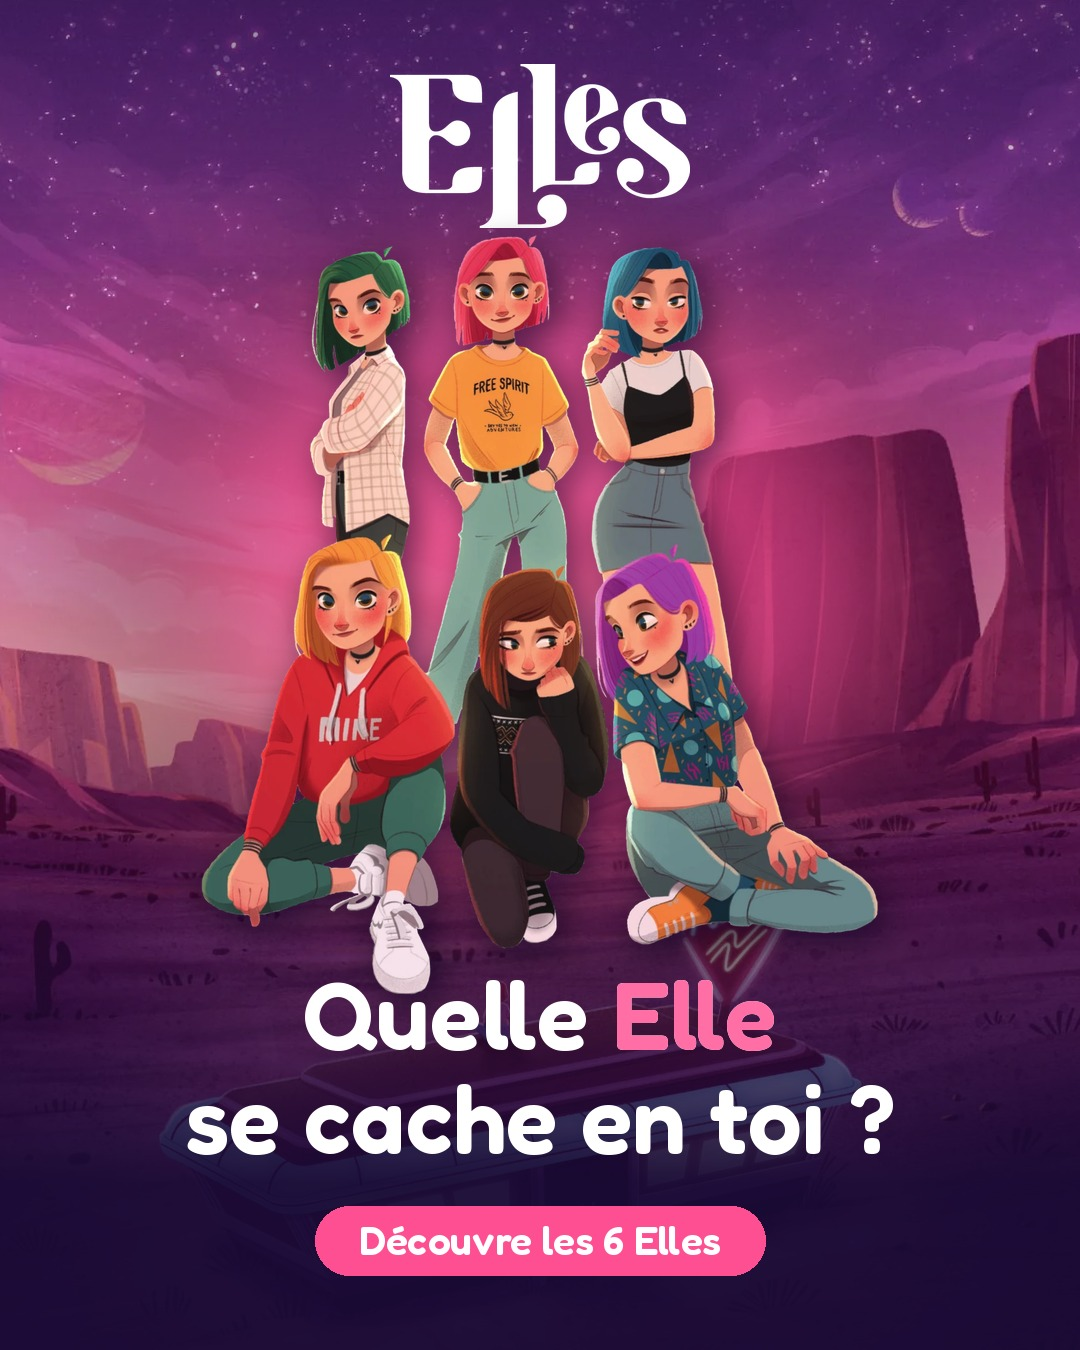
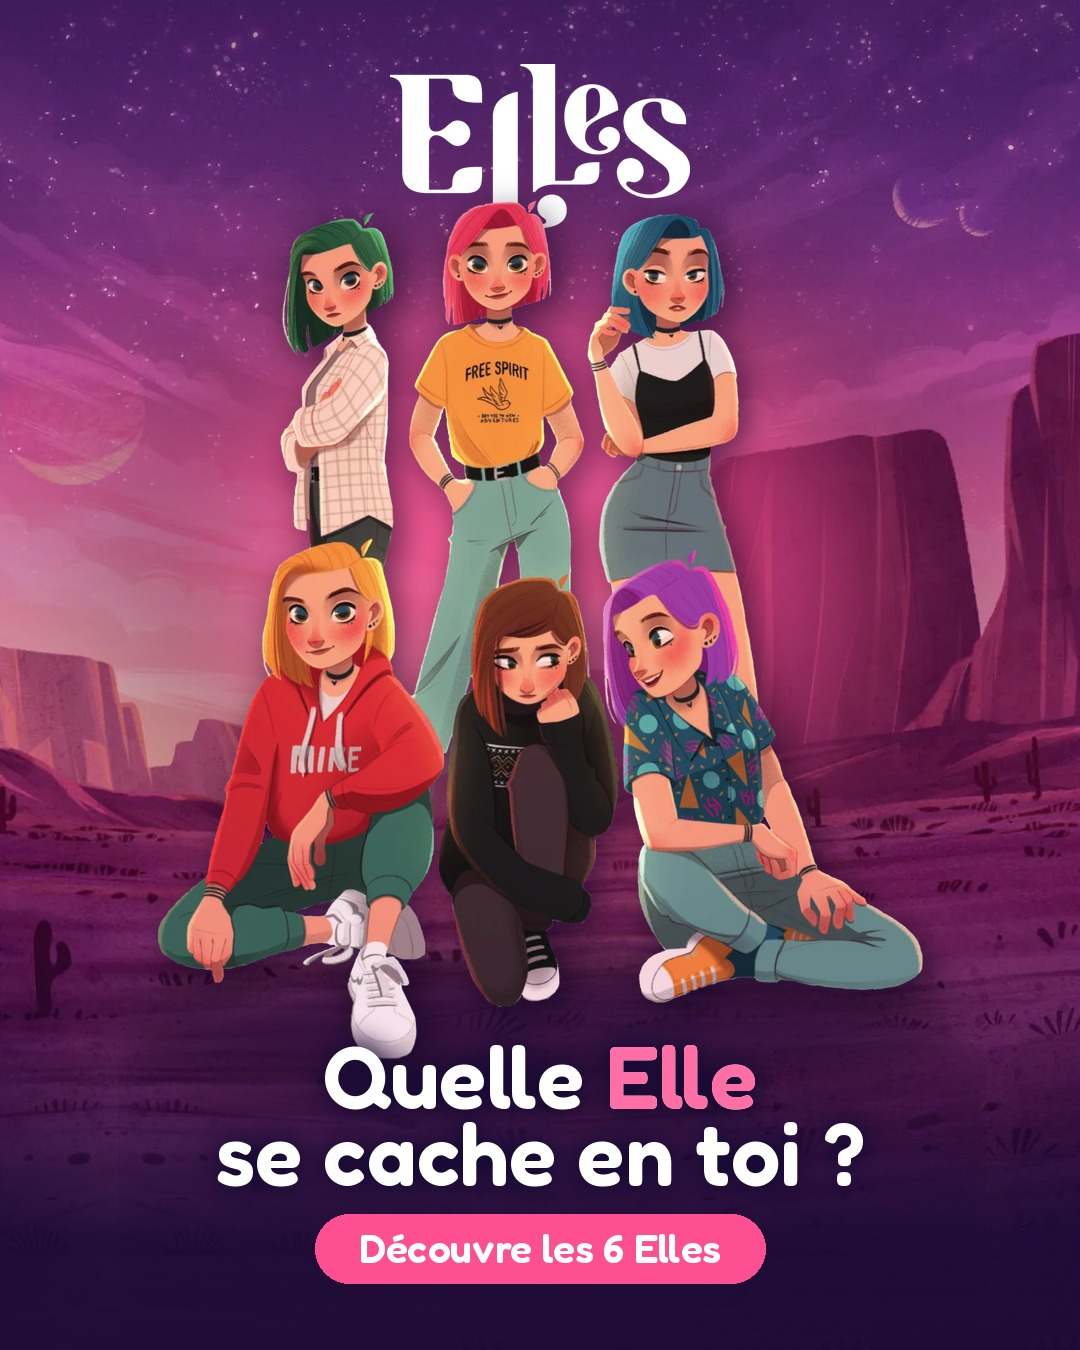
Couverture du carrousel alignée sur l'image unique
Claude-Session: https://claude.ai/code/session_01JYCcVS9zgu5A4NHUxSrqd3

Changed region(s): [[0.0, 0.1244, 1.0, 0.9644], [0.275, 0.9022, 0.3056, 0.9333]]

diff --git a/elles-quiz/tools/make_social.py b/elles-quiz/tools/make_social.py
@@ -87,7 +87,6 @@ def group_slide(name, cta, with_dots=None, sub=None, gy=235, lead=1.08, no_diner
     im.convert("RGB").save(f"social/{name}", quality=92); print(name)
 
 # ---------- Carrousel
-group_slide("carrousel_1_couverture.jpg", f"Découvre les 6 Elles")
 for i, (key, name, col, tag) in enumerate(ELLES, 1):
     im = cover("img/bg-pyramides.webp", (.5, .2)); halo(im, col, (120, 260, 960, 1060)); veil(im, bottom=250, start=.56)
     g = Image.open(f"img/{key}.webp").convert("RGBA")
@@ -109,20 +108,26 @@ center(d, 1150, "elles.lelombard.com", F(fred, 46), (255, 255, 255))
 center(d, 1222, f"Tome 4 · Intemporelle(s) · en librairie", F(nun, 32), (255, 220, 235))
 im.convert("RGB").save("social/carrousel_8_fais-le-test.jpg", quality=92); print(8)
 
-# ---------- Image unique : décor d'origine sans le diner (tools/make_bg_sans_diner.py), les Elles posées au sol
-im = veil(cover("social/_fond_sans_diner.png", (.5, .25)), bottom=235, start=.66)
-g = fit(Image.open("img/elles-groupe.webp").convert("RGBA"), 900, 860); gx, gy = (W - g.width) // 2, 200
-halo(im, (255, 79, 147), (160, 250, 920, 880)); logo(im)
-sh = Image.new("RGBA", (W, H), (0, 0, 0, 0))                           # ombre de contact au sol
-ImageDraw.Draw(sh).ellipse((gx - 30, gy + g.height - 95, gx + g.width + 30, gy + g.height + 20), fill=(30, 8, 50, 150))
-im.alpha_composite(sh.filter(ImageFilter.GaussianBlur(26)))
-paste(im, g, gx, gy)
-# les textes passent devant les Elles : une ombre douce derrière le titre garde sa lisibilité
-ts = Image.new("RGBA", (W, H), (0, 0, 0, 0)); title(ImageDraw.Draw(ts), 1003, 88, .88)
-dark = Image.new("RGBA", (W, H), (24, 10, 52, 255)); dark.putalpha(ts.split()[3].filter(ImageFilter.GaussianBlur(14)).point(lambda v: min(255, int(v * 1.9))))
-im.alpha_composite(dark)
-d = ImageDraw.Draw(im, "RGBA")
-title(d, 1003, 88, .88)
-center(d, 1178, "Fais le test", F(fred, 36), (255, 255, 255))
-pill(d, 1232, "elles.lelombard.com", F(fred, 40))
-im.convert("RGB").save("social/photo_unique.jpg", quality=92); print("photo_unique.jpg")
+# ---------- Image unique et couverture du carrousel : décor d'origine sans le diner (tools/make_bg_sans_diner.py),
+#            les Elles posées au sol, devant le logo et derrière les textes
+def hero(name, cta, sub=None):
+    im = veil(cover("social/_fond_sans_diner.png", (.5, .25)), bottom=235, start=.66)
+    g = fit(Image.open("img/elles-groupe.webp").convert("RGBA"), 900, 860); gx, gy = (W - g.width) // 2, 200
+    halo(im, (255, 79, 147), (160, 250, 920, 880)); logo(im)
+    sh = Image.new("RGBA", (W, H), (0, 0, 0, 0))                           # ombre de contact au sol
+    ImageDraw.Draw(sh).ellipse((gx - 30, gy + g.height - 95, gx + g.width + 30, gy + g.height + 20), fill=(30, 8, 50, 150))
+    im.alpha_composite(sh.filter(ImageFilter.GaussianBlur(26)))
+    paste(im, g, gx, gy)
+    ty = 1003 if sub else 1022
+    # les textes passent devant les Elles : une ombre douce derrière le titre garde sa lisibilité
+    ts = Image.new("RGBA", (W, H), (0, 0, 0, 0)); title(ImageDraw.Draw(ts), ty, 88, .88)
+    dark = Image.new("RGBA", (W, H), (24, 10, 52, 255)); dark.putalpha(ts.split()[3].filter(ImageFilter.GaussianBlur(14)).point(lambda v: min(255, int(v * 1.9))))
+    im.alpha_composite(dark)
+    d = ImageDraw.Draw(im, "RGBA")
+    title(d, ty, 88, .88)
+    if sub: center(d, 1178, sub, F(fred, 36), (255, 255, 255))
+    pill(d, 1232 if sub else 1214, cta, F(fred, 40))
+    im.convert("RGB").save(f"social/{name}", quality=92); print(name)
+
+hero("photo_unique.jpg", "elles.lelombard.com", sub="Fais le test")
+hero("carrousel_1_couverture.jpg", "Découvre les 6 Elles")
